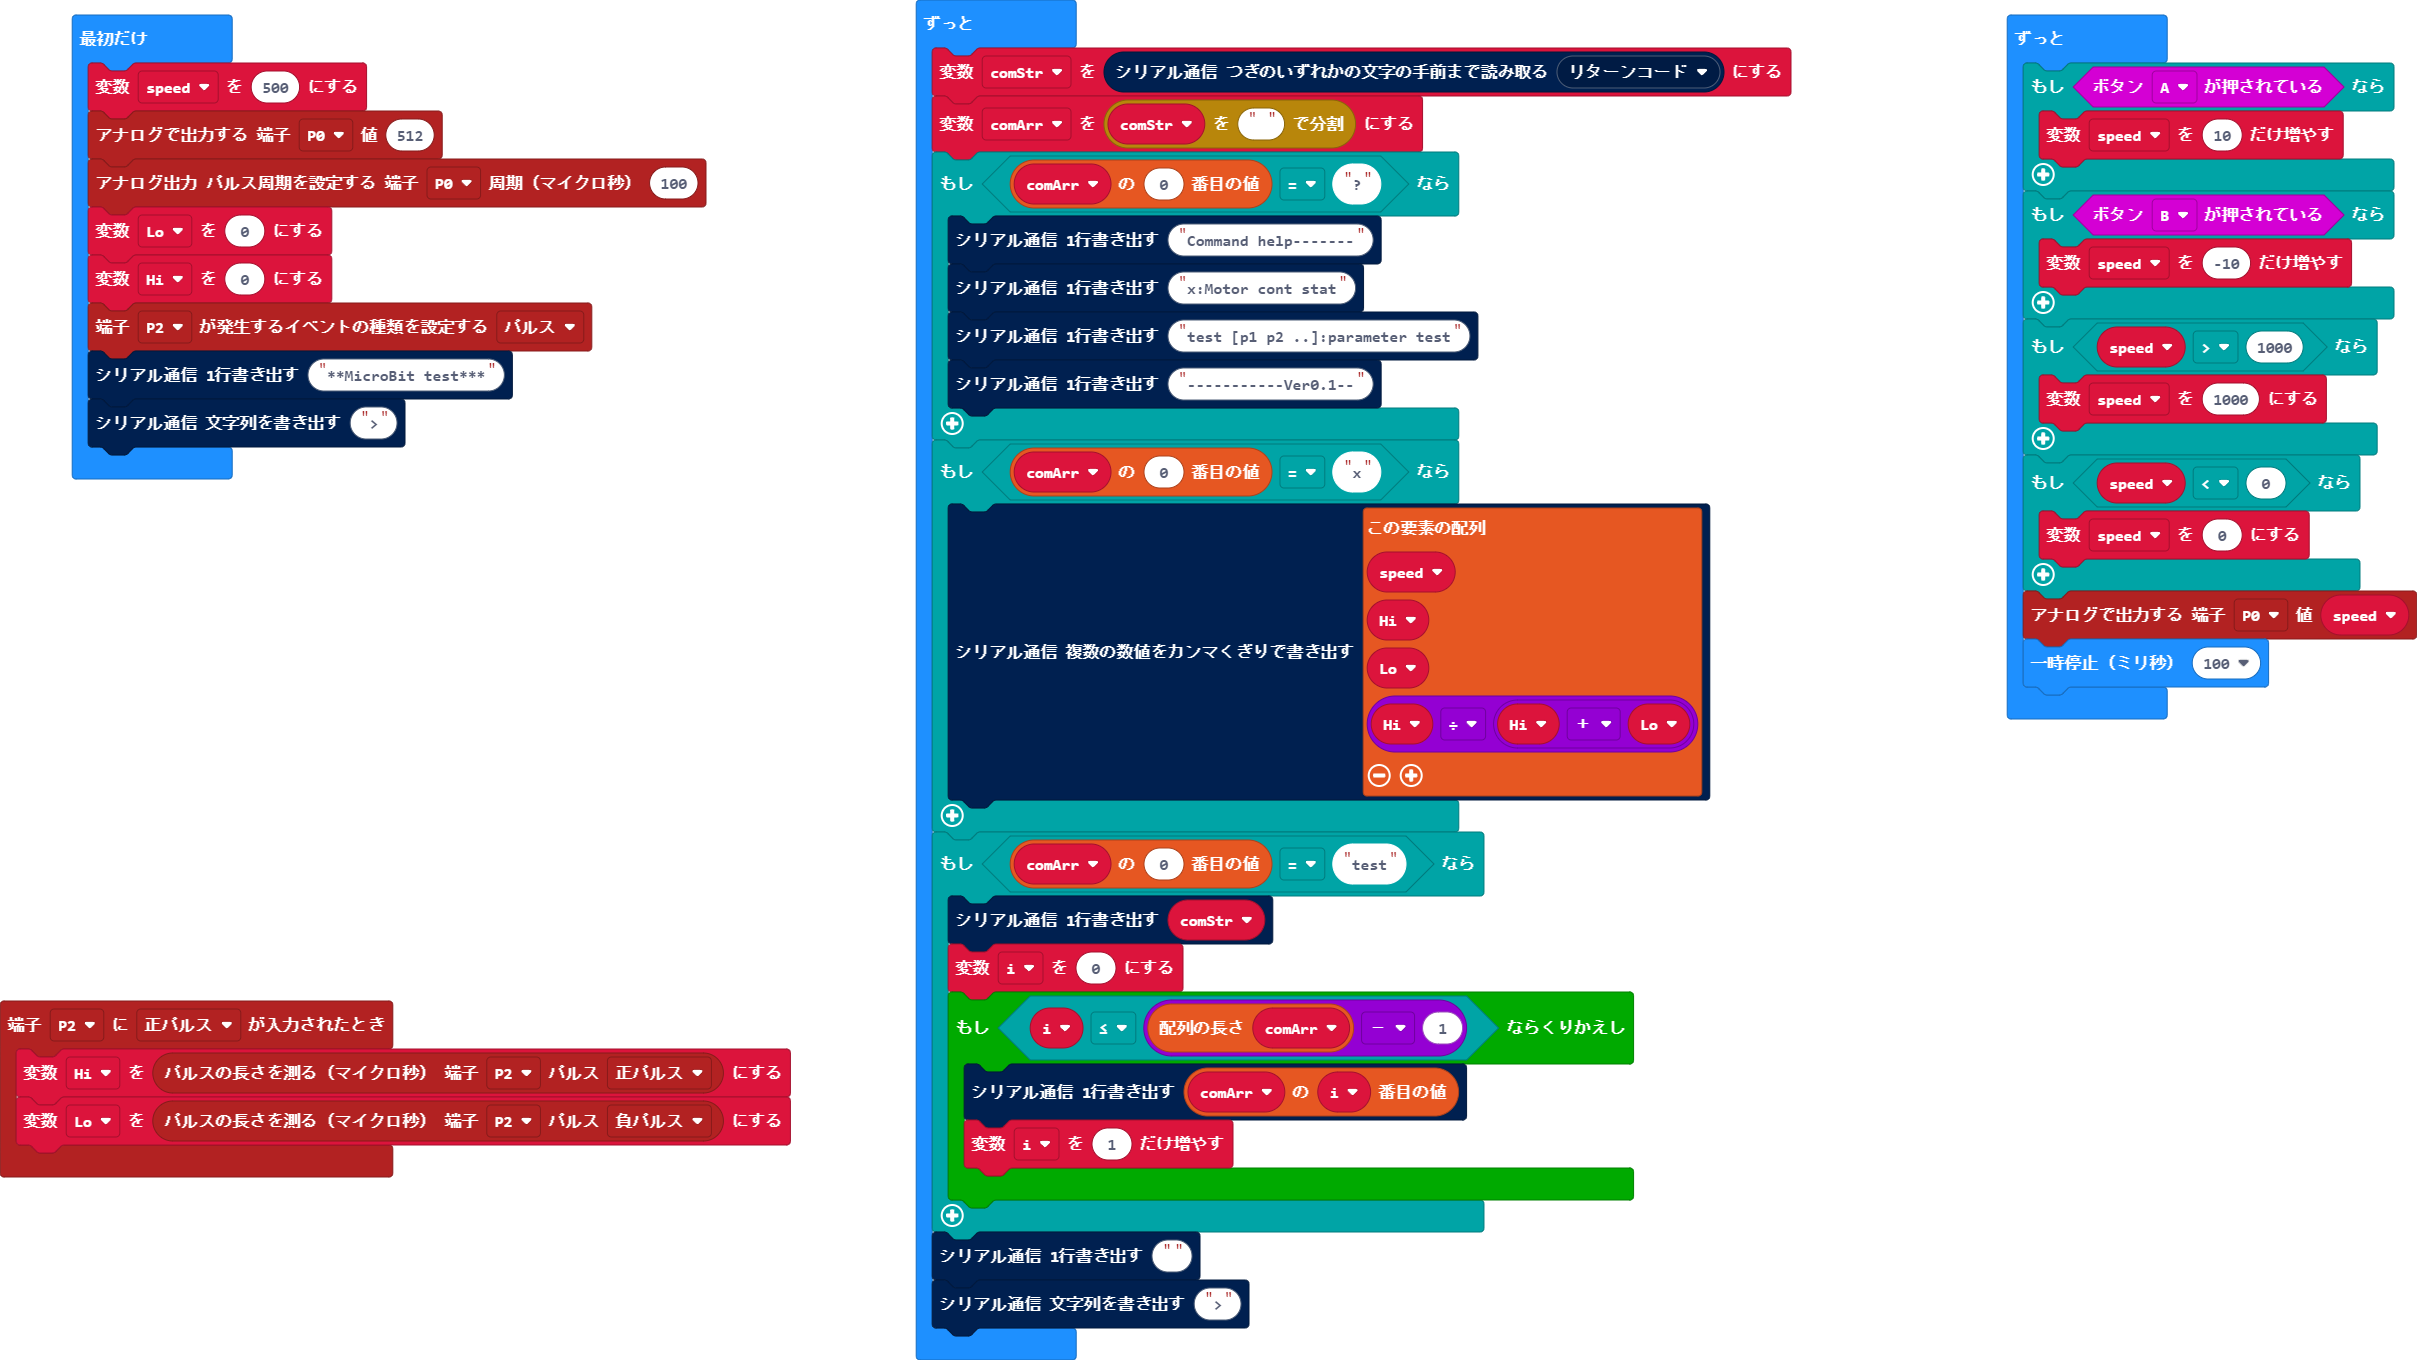
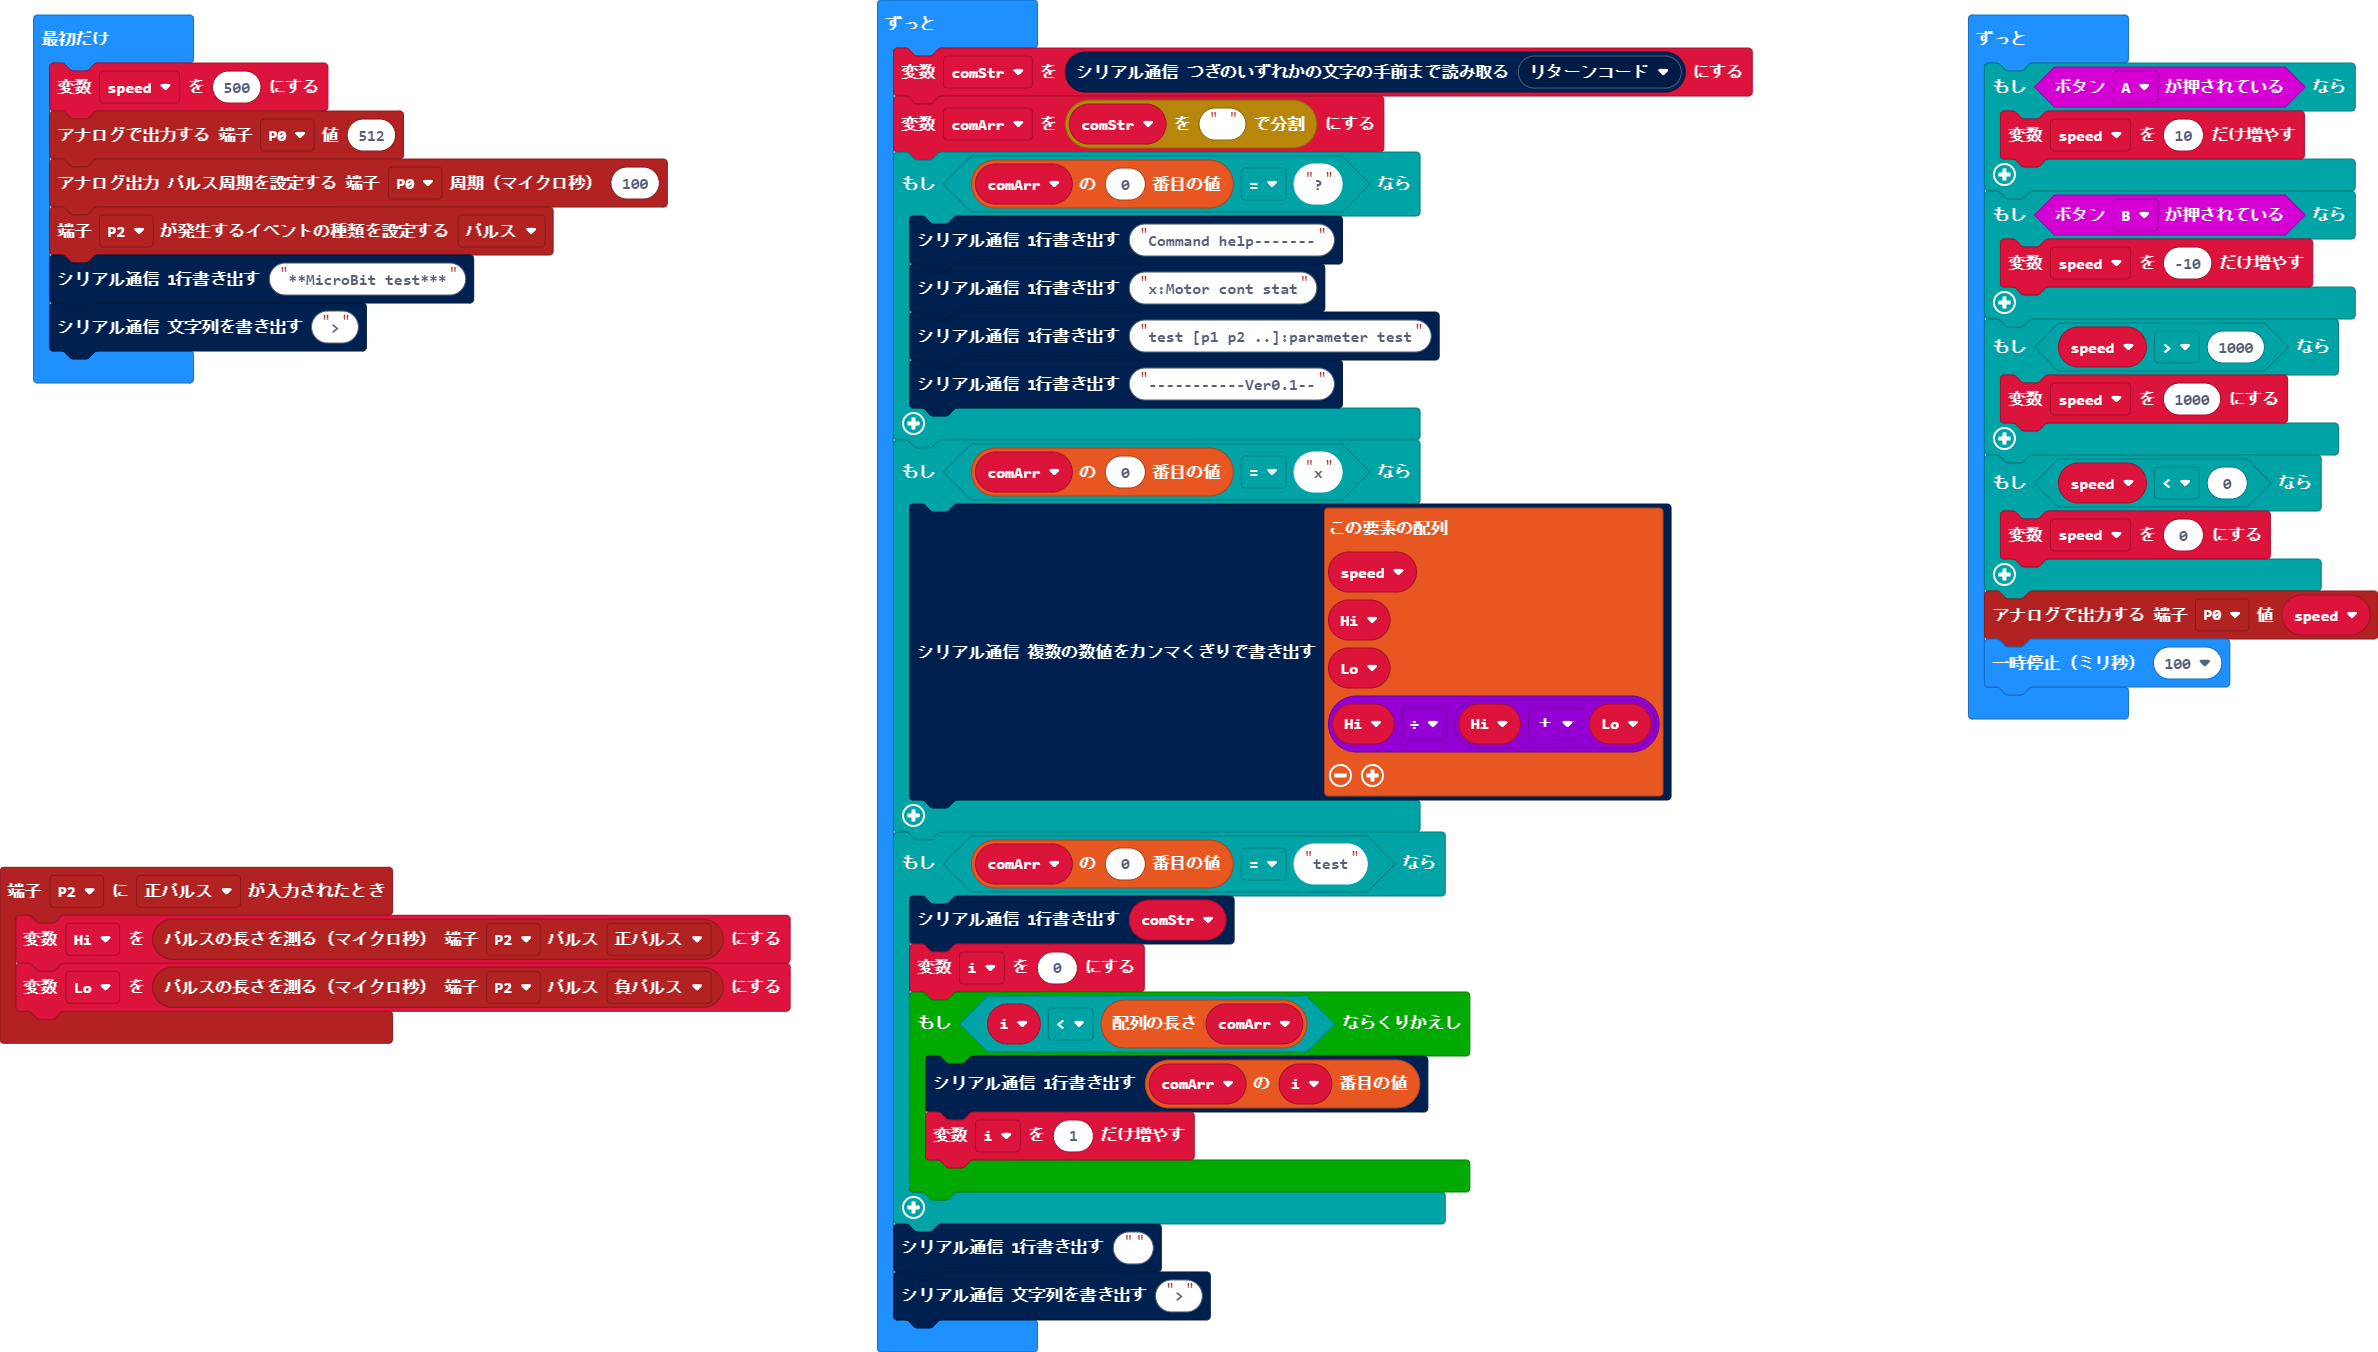
今日の更新

diff --git a/main.ts b/main.ts
@@ -5,13 +5,11 @@ pins.onPulsed(DigitalPin.P2, PulseValue.High, function () {
 let i = 0
 let comArr: string[] = []
 let comStr = ""
-let Hi = 0
 let Lo = 0
+let Hi = 0
 let speed = 500
 pins.analogWritePin(AnalogPin.P0, 512)
 pins.analogSetPeriod(AnalogPin.P0, 100)
-Lo = 0
-Hi = 0
 pins.setEvents(DigitalPin.P2, PinEventType.Pulse)
 serial.writeLine("**MicroBit test***")
 serial.writeString(">")
@@ -35,7 +33,7 @@ basic.forever(function () {
     if (comArr[0] == "test") {
         serial.writeLine(comStr)
         i = 0
-        while (i <= comArr.length - 1) {
+        while (i < comArr.length) {
             serial.writeLine("" + (comArr[i]))
             i += 1
         }

diff --git a/main.py b/main.py
@@ -5,6 +5,7 @@ def on_pulsed_p2_high():
 pins.on_pulsed(DigitalPin.P2, PulseValue.HIGH, on_pulsed_p2_high)
 
 i = 0
+comArr: List[str] = []
 comStr = ""
 Hi = 0
 Lo = 0
@@ -18,9 +19,9 @@ serial.write_line("**MicroBit test***")
 serial.write_string(">")
 
 def on_forever():
-    global comStr, i
-    comArr: List[str] = []
+    global comStr, comArr, i
     comStr = serial.read_until(serial.delimiters(Delimiters.CARRIAGE_RETURN))
+    comArr = comStr.split(" ")
     if comArr[0] == "?":
         serial.write_line("Command help-------")
         serial.write_line("x:Motor cont stat")
@@ -31,7 +32,7 @@ def on_forever():
     if comArr[0] == "test":
         serial.write_line(comStr)
         i = 0
-        while i <= len(comArr) - 1:
+        while i < len(comArr):
             serial.write_line("" + (comArr[i]))
             i += 1
     serial.write_line("")
